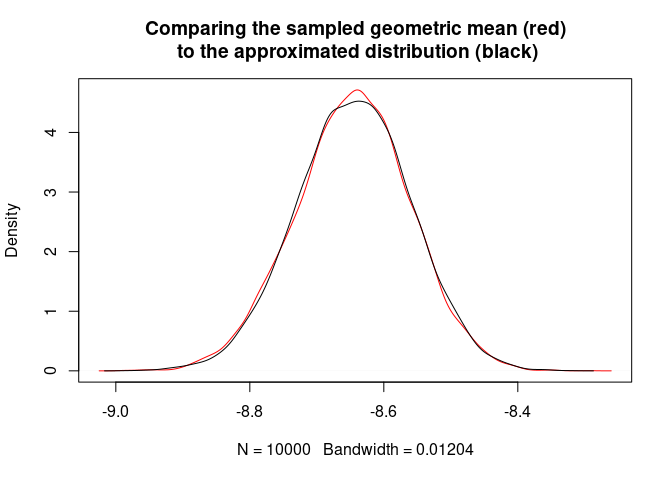
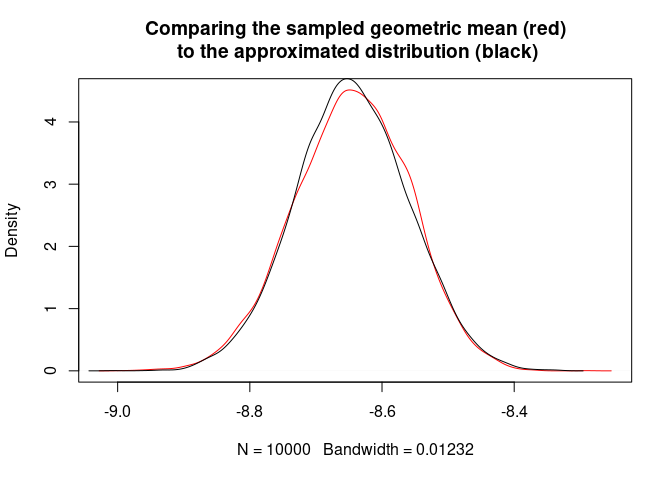
fix fig

diff --git a/README.md b/README.md
@@ -34,7 +34,7 @@ knitr::kable(t(data.frame("observed" =
 
 |              |      mean |        sd |
 |:-------------|----------:|----------:|
-| observed     | -8.644283 | 0.0859480 |
+| observed     | -8.647416 | 0.0863472 |
 | approximated | -8.645706 | 0.0859221 |
 
 ``` r
@@ -122,6 +122,8 @@ pca  = data.frame(PC1 = data.a.pca$x[,1],
                   PC4 = data.a.pca$x[,4])
 
 pca$Type = rep(c("lognorm", "estimated"), each = 120 )
+pca$ID   = paste0("s",1:120)
+
 
 
 #First, the main plot. Plot the first two components of the PCA
@@ -130,9 +132,8 @@ ggplot(pca, aes(x       = PC1,
                 fill    = Type)) +  
   
   #Create the points and ellipses
-  stat_ellipse(geom = "polygon", alpha = 1/4) +
-  geom_point(size=3, col = "black") + 
-  
+  geom_path(aes(group = ID), col = "black") +
+  geom_point(size=3, col = "black", shape = 21) + 
   #Adjust appearance
   
   #Adjust labels
